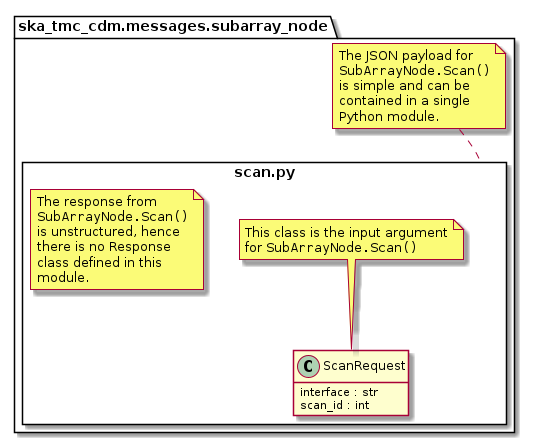
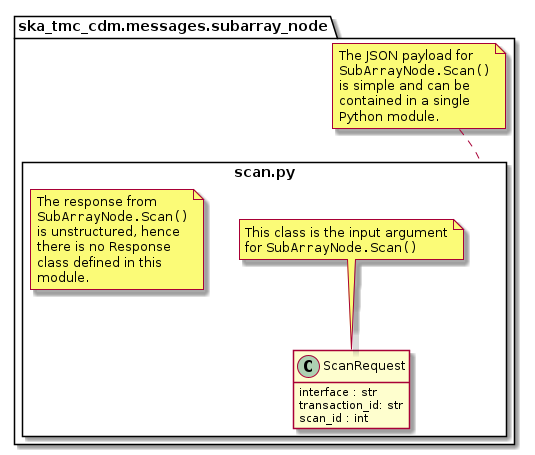
AT2-855 update docs and tests for SubArrayNode.Scan

Changed region(s): [[0.0299, 0.4695, 0.957, 0.9977], [0.0299, 0.0293, 0.957, 0.4108], [0.0598, 0.4108, 0.3888, 0.6749]]

diff --git a/tests/unit/ska_tmc_cdm/schemas/subarray_node/test_scan.py b/tests/unit/ska_tmc_cdm/schemas/subarray_node/test_scan.py
@@ -4,43 +4,55 @@ Unit tests for the ska_tmc_cdm.schemas.subarray_node.scan module
 
 import pytest
 
-from ska_tmc_cdm.exceptions import JsonValidationError
-from ska_tmc_cdm.messages.subarray_node.scan import ScanRequest
-from ska_tmc_cdm.schemas.shared import ValidatingSchema
+from ska_tmc_cdm.messages.subarray_node.scan import (
+    ScanRequest,
+    LOW_SCHEMA,
+    MID_SCHEMA
+)
 from ska_tmc_cdm.schemas.subarray_node.scan import ScanRequestSchema
-from ska_tmc_cdm.utils import json_is_equal
 from .. import utils
 
-VALID_MID_SCANREQUEST_JSON = """
+VALID_MID_JSON = """
 {
   "interface": "https://schema.skao.int/ska-tmc-scan/2.0",
-  "scan_id": 1,
   "transaction_id": "txn-test-00001",
+  "scan_id": 1
 }
 """
 
-VALID_MID_SCANREQUEST_OBJECT = ScanRequest(
+VALID_MID_OBJECT = ScanRequest(
     interface = "https://schema.skao.int/ska-tmc-scan/2.0",
-    scan_id = 1,
     transaction_id = "txn-test-00001",
+    scan_id = 1,
 )
 
-VALID_LOW_SCANREQUEST_JSON = """
+INVALID_MID_JSON = """
+{
+  "interface": "https://schema.skao.int/ska-tmc-scan/2.0",
+  "transaction_id": "txn-test-00001",
+  "scan_id": 1.23
+}
+"""
+
+VALID_LOW_JSON = """
 {   
     "interface": "https://schema.skao.int/ska-low-tmc-scan/2.0",
+    "transaction_id": "txn-test-00001",
     "scan_id": 1
 }
 """
 
-VALID_LOW_SCANREQUEST_OBJECT = ScanRequest(
+VALID_LOW_OBJECT = ScanRequest(
     interface="https://schema.skao.int/ska-low-tmc-scan/2.0",
+    transaction_id = "txn-test-00001",
     scan_id=1
 )
 
-INVALID_LOW_SCANREQUEST_JSON = """
+INVALID_LOW_JSON = """
 {   
     "interface": "https://schema.skao.int/ska-low-tmc-scan/2.0",
-    "scan_id": -1.3
+    "transaction_id": "txn-test-00001",
+    "scan_id": 1.23
 }
 """
 
@@ -48,16 +60,16 @@ INVALID_LOW_SCANREQUEST_JSON = """
 @pytest.mark.parametrize(
     'schema_cls,instance,modifier_fn,valid_json,invalid_json',
     [
-        #(ScanRequestSchema,
-        # VALID_MID_SCANREQUEST_OBJECT,
-        # None,  # No validation for MID
-        # VALID_MID_SCANREQUEST_JSON,
-        # None),  # no validation for MID
         (ScanRequestSchema,
-         VALID_LOW_SCANREQUEST_OBJECT,
+         VALID_MID_OBJECT,
+         None,  # No validation for MID
+         VALID_MID_JSON,
+         INVALID_MID_JSON),  # no validation for MID
+        (ScanRequestSchema,
+         VALID_LOW_OBJECT,
          None,  # schema does not impose any constraints so nothing to test
-         VALID_LOW_SCANREQUEST_JSON,
-         INVALID_LOW_SCANREQUEST_JSON),
+         VALID_LOW_JSON,
+         INVALID_LOW_JSON),
     ]
 )
 def test_assigned_resources_serialisation_and_validation(

diff --git a/tests/unit/ska_tmc_cdm/messages/subarray_node/test_scan.py b/tests/unit/ska_tmc_cdm/messages/subarray_node/test_scan.py
@@ -1,60 +1,43 @@
 """
-Unit tests for the SubarrayNode.Configure request/response mapper module.
+Unit tests for the ska_tmc_cdm.messages.subarraynode.scan module
 """
 
 import pytest
 
 from ska_tmc_cdm.messages.subarray_node.scan import ScanRequest
 
-MID_SDP_INTERFACE = "https://schema.skao.int/ska-tmc-scan/2.0""
-TRNS_ID           = "txn-test-00001"
-LOW_TMC_INTERFACE = "https://schema.skao.int/ska-low-tmc-scan/2.0"
+CONSTRUCTOR_ARGS = dict(
+    interface="interface",
+    transaction_id="transaction ID",
+    scan_id=123
+)
 
 
-@pytest.mark.xfail
-def test_scan_request_init():
+def test_scanrequest_eq():
     """
-    Create a ScanRequest instance with a scan id of 2 and verify __eq__ behaviour.
+    Verify that scan requests with the same values are considered equal.
     """
-    scan_id = 2
-    scan_request = ScanRequest(
-        interface = MID_SDP_INTERFACE,
-        scan_id = scan_id,
-        transaction_id = TRNS_ID,
+    # objects with same property values are considered equal
+    request = ScanRequest(**CONSTRUCTOR_ARGS)
+    other = ScanRequest(**CONSTRUCTOR_ARGS)
+    assert request == other
+
+    alternate_args = dict(
+        interface="foo",
+        transaction_id="foo",
+        scan_id = 99999
     )
-    scan_request_2 = ScanRequest(
-        interface = MID_SDP_INTERFACE,
-        scan_id = scan_id,
-        transaction_id = TRNS_ID,
-    )
-
-    empty_object = {}
-
-    assert scan_request.scan_id == scan_id
-    assert scan_request != empty_object
-
-    # equal if the contents are identical
-    assert scan_request == scan_request_2
+    for k, v in alternate_args.items():
+        other_args = dict(CONSTRUCTOR_ARGS)
+        other_args[k] = v
+        assert request != ScanRequest(**other_args)
 
 
-def test_scan_request_init_for_low():
+def test_scanrequest_not_equal_to_other_objects():
     """
-    Create a ScanRequest instance with a scan id of 2 and verify __eq__ behaviour.
+    Verify that ScanRequest objects are not considered equal to objects
+    of other types.
     """
-    scan_id = 2
-    scan_request = ScanRequest(
-        interface=LOW_TMC_INTERFACE,
-        scan_id=scan_id,
-    )
-    scan_request_2 = ScanRequest(
-        scan_id=scan_id,
-        interface=LOW_TMC_INTERFACE
-    )
-
-    empty_object = {}
-
-    assert scan_request.scan_id == scan_id
-    assert scan_request != empty_object
-
-    # equal if the contents are identical
-    assert scan_request == scan_request_2
+    request = ScanRequest(**CONSTRUCTOR_ARGS)
+    assert request != 1
+    assert request != object()

diff --git a/src/ska_tmc_cdm/schemas/subarray_node/scan.py b/src/ska_tmc_cdm/schemas/subarray_node/scan.py
@@ -1,30 +1,38 @@
 """
-The schemas module defines Marshmallow schemas that map CDM message classes
-and data model classes to/from a JSON representation.
+The ska_tmc_cdm.schemas.subarray_node.scan module contains Marshmallow schema
+that map ska_tmc_cdm.schemas.subarray_node.scan message classes to/from JSON.
 """
 
 from marshmallow import fields, post_load, post_dump
 
-import ska_tmc_cdm.messages.subarray_node.scan as scan_msgs
+from ska_tmc_cdm.messages.subarray_node.scan import ScanRequest
 from ska_tmc_cdm.schemas import CODEC
 from ska_tmc_cdm.schemas.shared import ValidatingSchema
 
 __all__ = ["ScanRequestSchema"]
 
 
-@CODEC.register_mapping(scan_msgs.ScanRequest)
+@CODEC.register_mapping(ScanRequest)
 class ScanRequestSchema(ValidatingSchema):  # pylint: disable=too-few-public-methods
     """
-    Create the Schema for ScanDuration using timedelta
+    ScanRequestSchema is the Marshmallow schema that marshals a ScanRequest
+    to/from JSON.
     """
 
+    # Message metadata and tracing fields ------------------------------------
+
+    # schema ID, e.g., https://schema.skao.int/ska-tmc-scan/1.0
     interface = fields.String()
-    # holds scan ID for MID and LOW
+    # optional transaction ID, used to trace commands through the system
+    transaction_id = fields.String(required=False)
+
+    # Message content fields -------------------------------------------------
+
+    # holds numeric scan ID
     scan_id = fields.Integer()
-    transaction_id = fields.String()
 
     @post_load
-    def create_scan_request(self, data, **_):  # pylint: disable=no-self-use
+    def create_scanrequest(self, data, **_):  # pylint: disable=no-self-use
         """
         Convert parsed JSON back into a ScanRequest
 
@@ -32,16 +40,14 @@ class ScanRequestSchema(ValidatingSchema):  # pylint: disable=too-few-public-met
         :param _: kwargs passed by Marshmallow
         :return: ScanRequest instance populated to match JSON
         """
-
-
-        scan_id = data["scan_id"]
         interface = data["interface"]
         transaction_id = data.get("transaction_id", None)
+        scan_id = data["scan_id"]
 
-        return scan_msgs.ScanRequest(
-            scan_id=scan_id,
+        return ScanRequest(
             interface=interface,
-            transaction_id=transaction_id
+            transaction_id=transaction_id,
+            scan_id=scan_id
         )
 
     @post_dump

diff --git a/src/ska_tmc_cdm/messages/subarray_node/scan.py b/src/ska_tmc_cdm/messages/subarray_node/scan.py
@@ -2,21 +2,41 @@
 The scan module defines simple Python representations of the structured
 request for a TMC SubArrayNode.Scan command.
 """
+from typing import Optional
 
-__all__ = ["ScanRequest"]
+__all__ = [
+    "ScanRequest"
+]
+
+# The existence of LOW_SCHEMA is an accident dating from when we thought MID
+# and LOW TMC would have different schema rather than a single unified MID+LOW
+# schema. LOW_SCHEMA will eventually be phased out and replaced by MID_SCHEMA,
+# which will become the single schema for SubArrayNode.Scan and probably be
+# renamed SCHEMA rather than SCHEMA at that point.
+LOW_SCHEMA = "https://schema.skao.int/ska-low-tmc-scan/2.0"
+MID_SCHEMA = "https://schema.skao.int/ska-tmc-scan/2.0"
 
 
 class ScanRequest:  # pylint: disable=too-few-public-methods
     """
-    ScanRequest represents the request argument for SubArrayNode.scan call.
+    ScanRequest represents the JSON for a SubArrayNode.scan call.
     """
 
     def __init__(
-            self, 
-            scan_id: int, 
-            interface: str = None, 
-            transaction_id: str = None
+            self,
+            *,  # force kw-only args
+            interface: Optional[str] = MID_SCHEMA,
+            transaction_id: Optional[str] = None,
+            scan_id: int,
         ):
+        """
+        Create a new ScanRequest.
+
+        :param interface: Interface URI. Defaults to
+            https://schema.skao.int/ska-tmc-scan/2.0
+        :param transaction_id: optional transaction ID
+        :param scan_id: integer scan ID
+        """
         self.transaction_id = transaction_id
         self.interface = interface
         self.scan_id = scan_id
@@ -25,5 +45,5 @@ class ScanRequest:  # pylint: disable=too-few-public-methods
         if not isinstance(other, ScanRequest):
             return False
         return self.interface == other.interface and \
-               self.scan_id == other.scan_id and \
-               self.transaction_id == other.transaction_id
+               self.transaction_id == other.transaction_id and \
+               self.scan_id == other.scan_id
